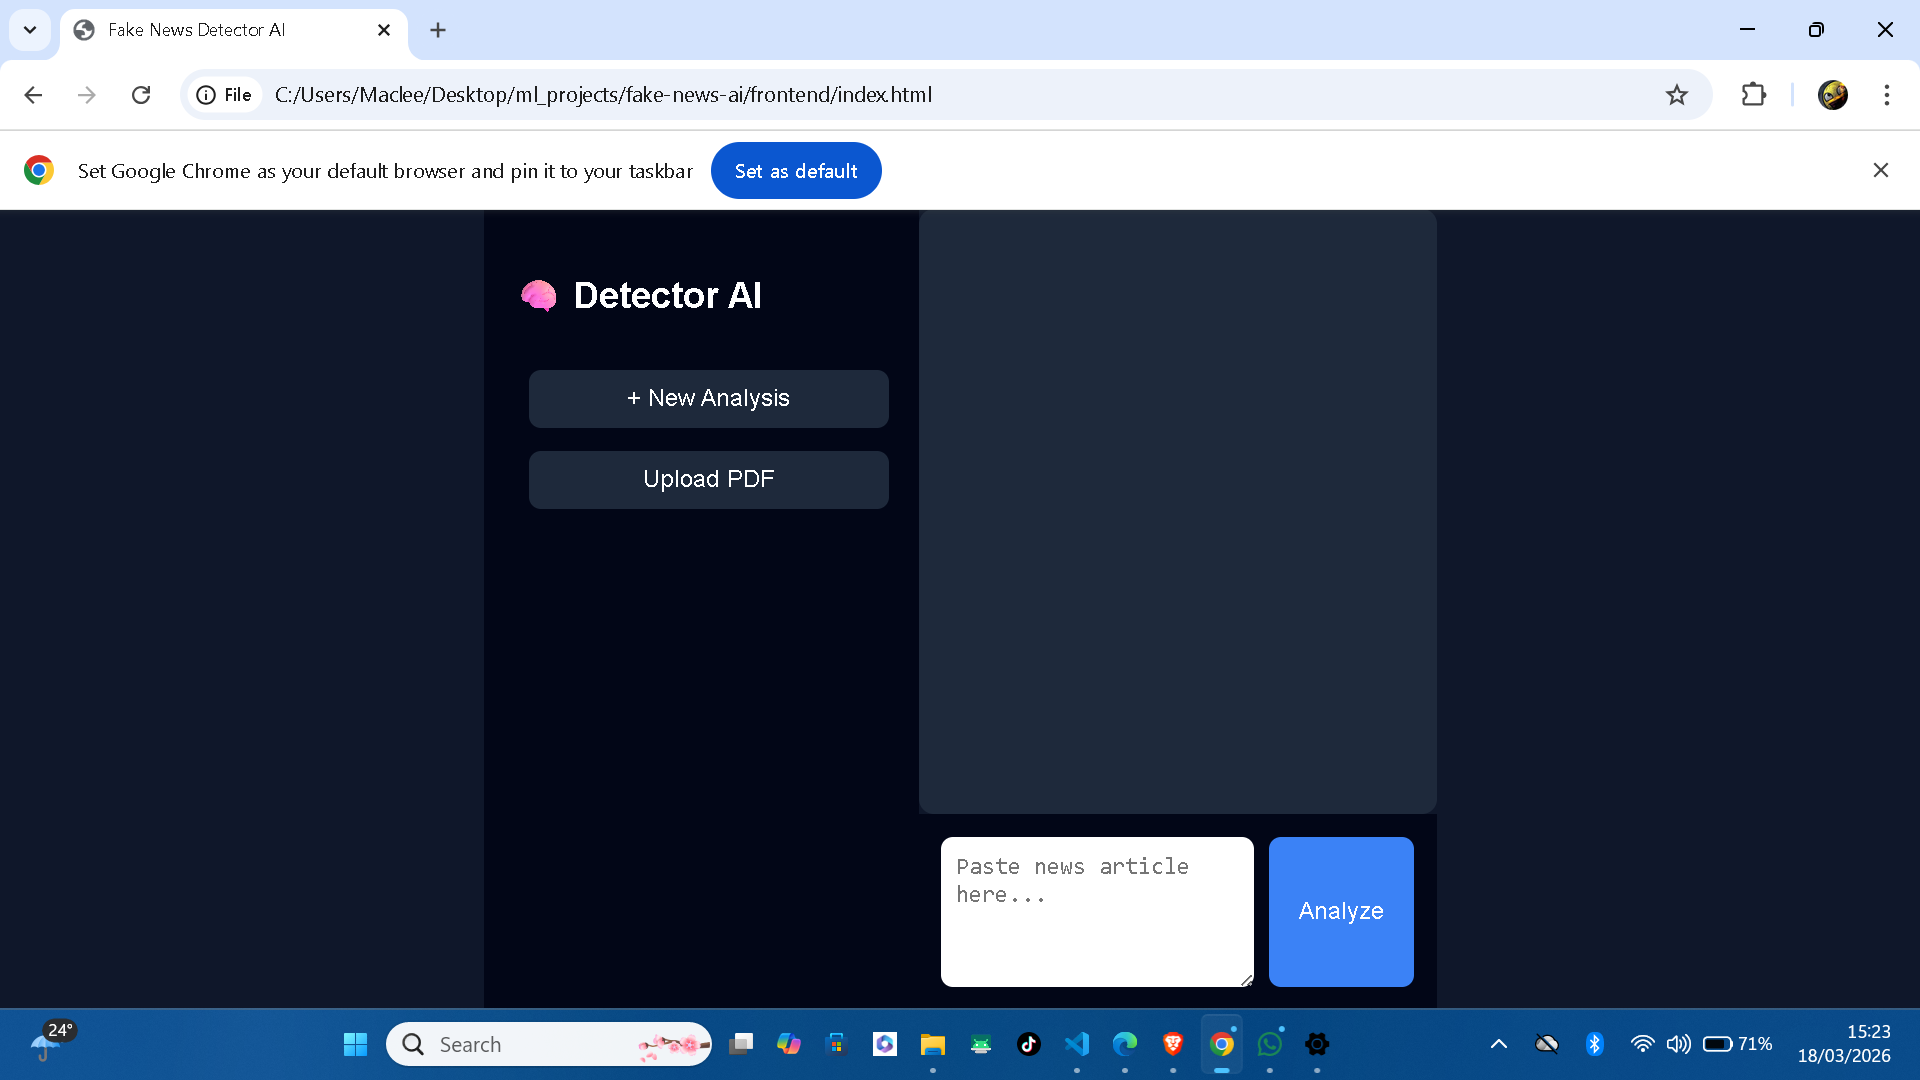
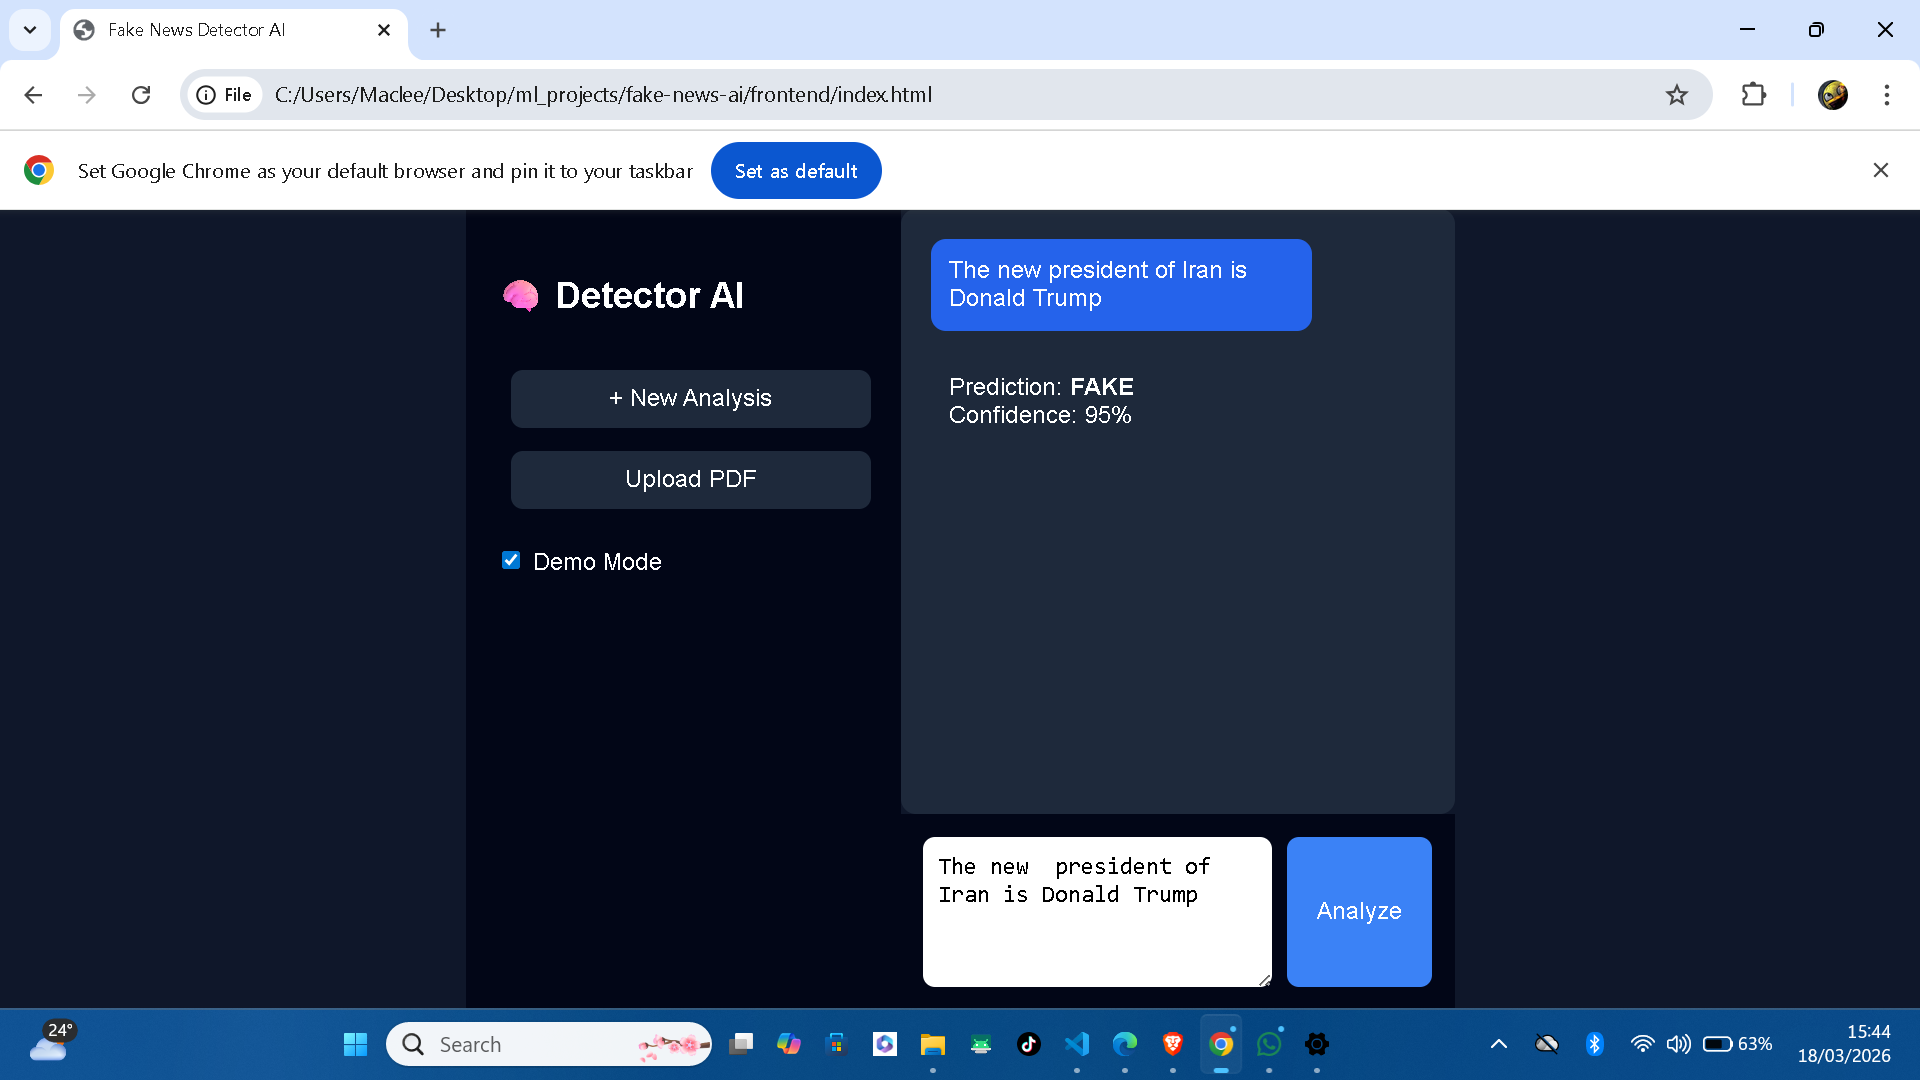
demo mode on for presentation

diff --git a/frontend/js/script.js b/frontend/js/script.js
@@ -1,6 +1,7 @@
 document.getElementById("analyzeBtn").onclick = async () => {
 
   const text = document.getElementById("newsText").value.trim();
+  const demoMode = document.getElementById("demoToggle").checked; // ✅ demo toggle
 
   if (!text) return alert("Enter some text");
 
@@ -11,7 +12,19 @@ document.getElementById("analyzeBtn").onclick = async () => {
   appendMessage("🧠 Analyzing article...", "bot");
 
   try {
+    // ✅ If demo mode is on, show fake output
+    if (demoMode) {
+      const loadingMsg = document.querySelector("#chat-window .message.bot:last-child");
+      if (loadingMsg) loadingMsg.remove();
 
+      appendMessage(
+        "Prediction: <strong>FAKE</strong><br>Confidence: 95%",
+        "bot"
+      );
+      return; // skip backend
+    }
+
+    // ❌ Normal API call for real input
     const response = await fetch("http://127.0.0.1:8000/api/predict", {
       method: "POST",
       headers: { "Content-Type": "application/json" },
@@ -40,40 +53,4 @@ document.getElementById("analyzeBtn").onclick = async () => {
       "bot"
     );
   }
-};
-
-
-//////////////////////////////
-// 📄 FILE UPLOAD HANDLER
-//////////////////////////////
-
-document.getElementById("uploadBtn").onclick = () => {
-
-  const input = document.createElement("input");
-  input.type = "file";
-  input.accept = ".txt,.pdf";
-
-  input.onchange = async e => {
-
-    const file = e.target.files[0];
-    if (!file) return;
-
-    // TXT support
-    if (file.type === "text/plain") {
-
-      const text = await file.text();
-      document.getElementById("newsText").value = text;
-
-    }
-
-    // PDF placeholder
-    else if (file.type === "application/pdf") {
-
-      alert("📄 PDF support coming soon. Paste text for now.");
-
-    }
-
-  };
-
-  input.click();
 };

diff --git a/frontend/index.html b/frontend/index.html
@@ -14,6 +14,11 @@
     <h2>🧠 Detector AI</h2>
     <button id="newChat">+ New Analysis</button>
     <button id="uploadBtn">Upload PDF</button>
+    
+    <!-- ✅ Demo Mode Toggle -->
+    <label style="margin-top:10px; display:block;">
+      <input type="checkbox" id="demoToggle" /> Demo Mode
+    </label>
   </aside>
 
   <main class="chat">
